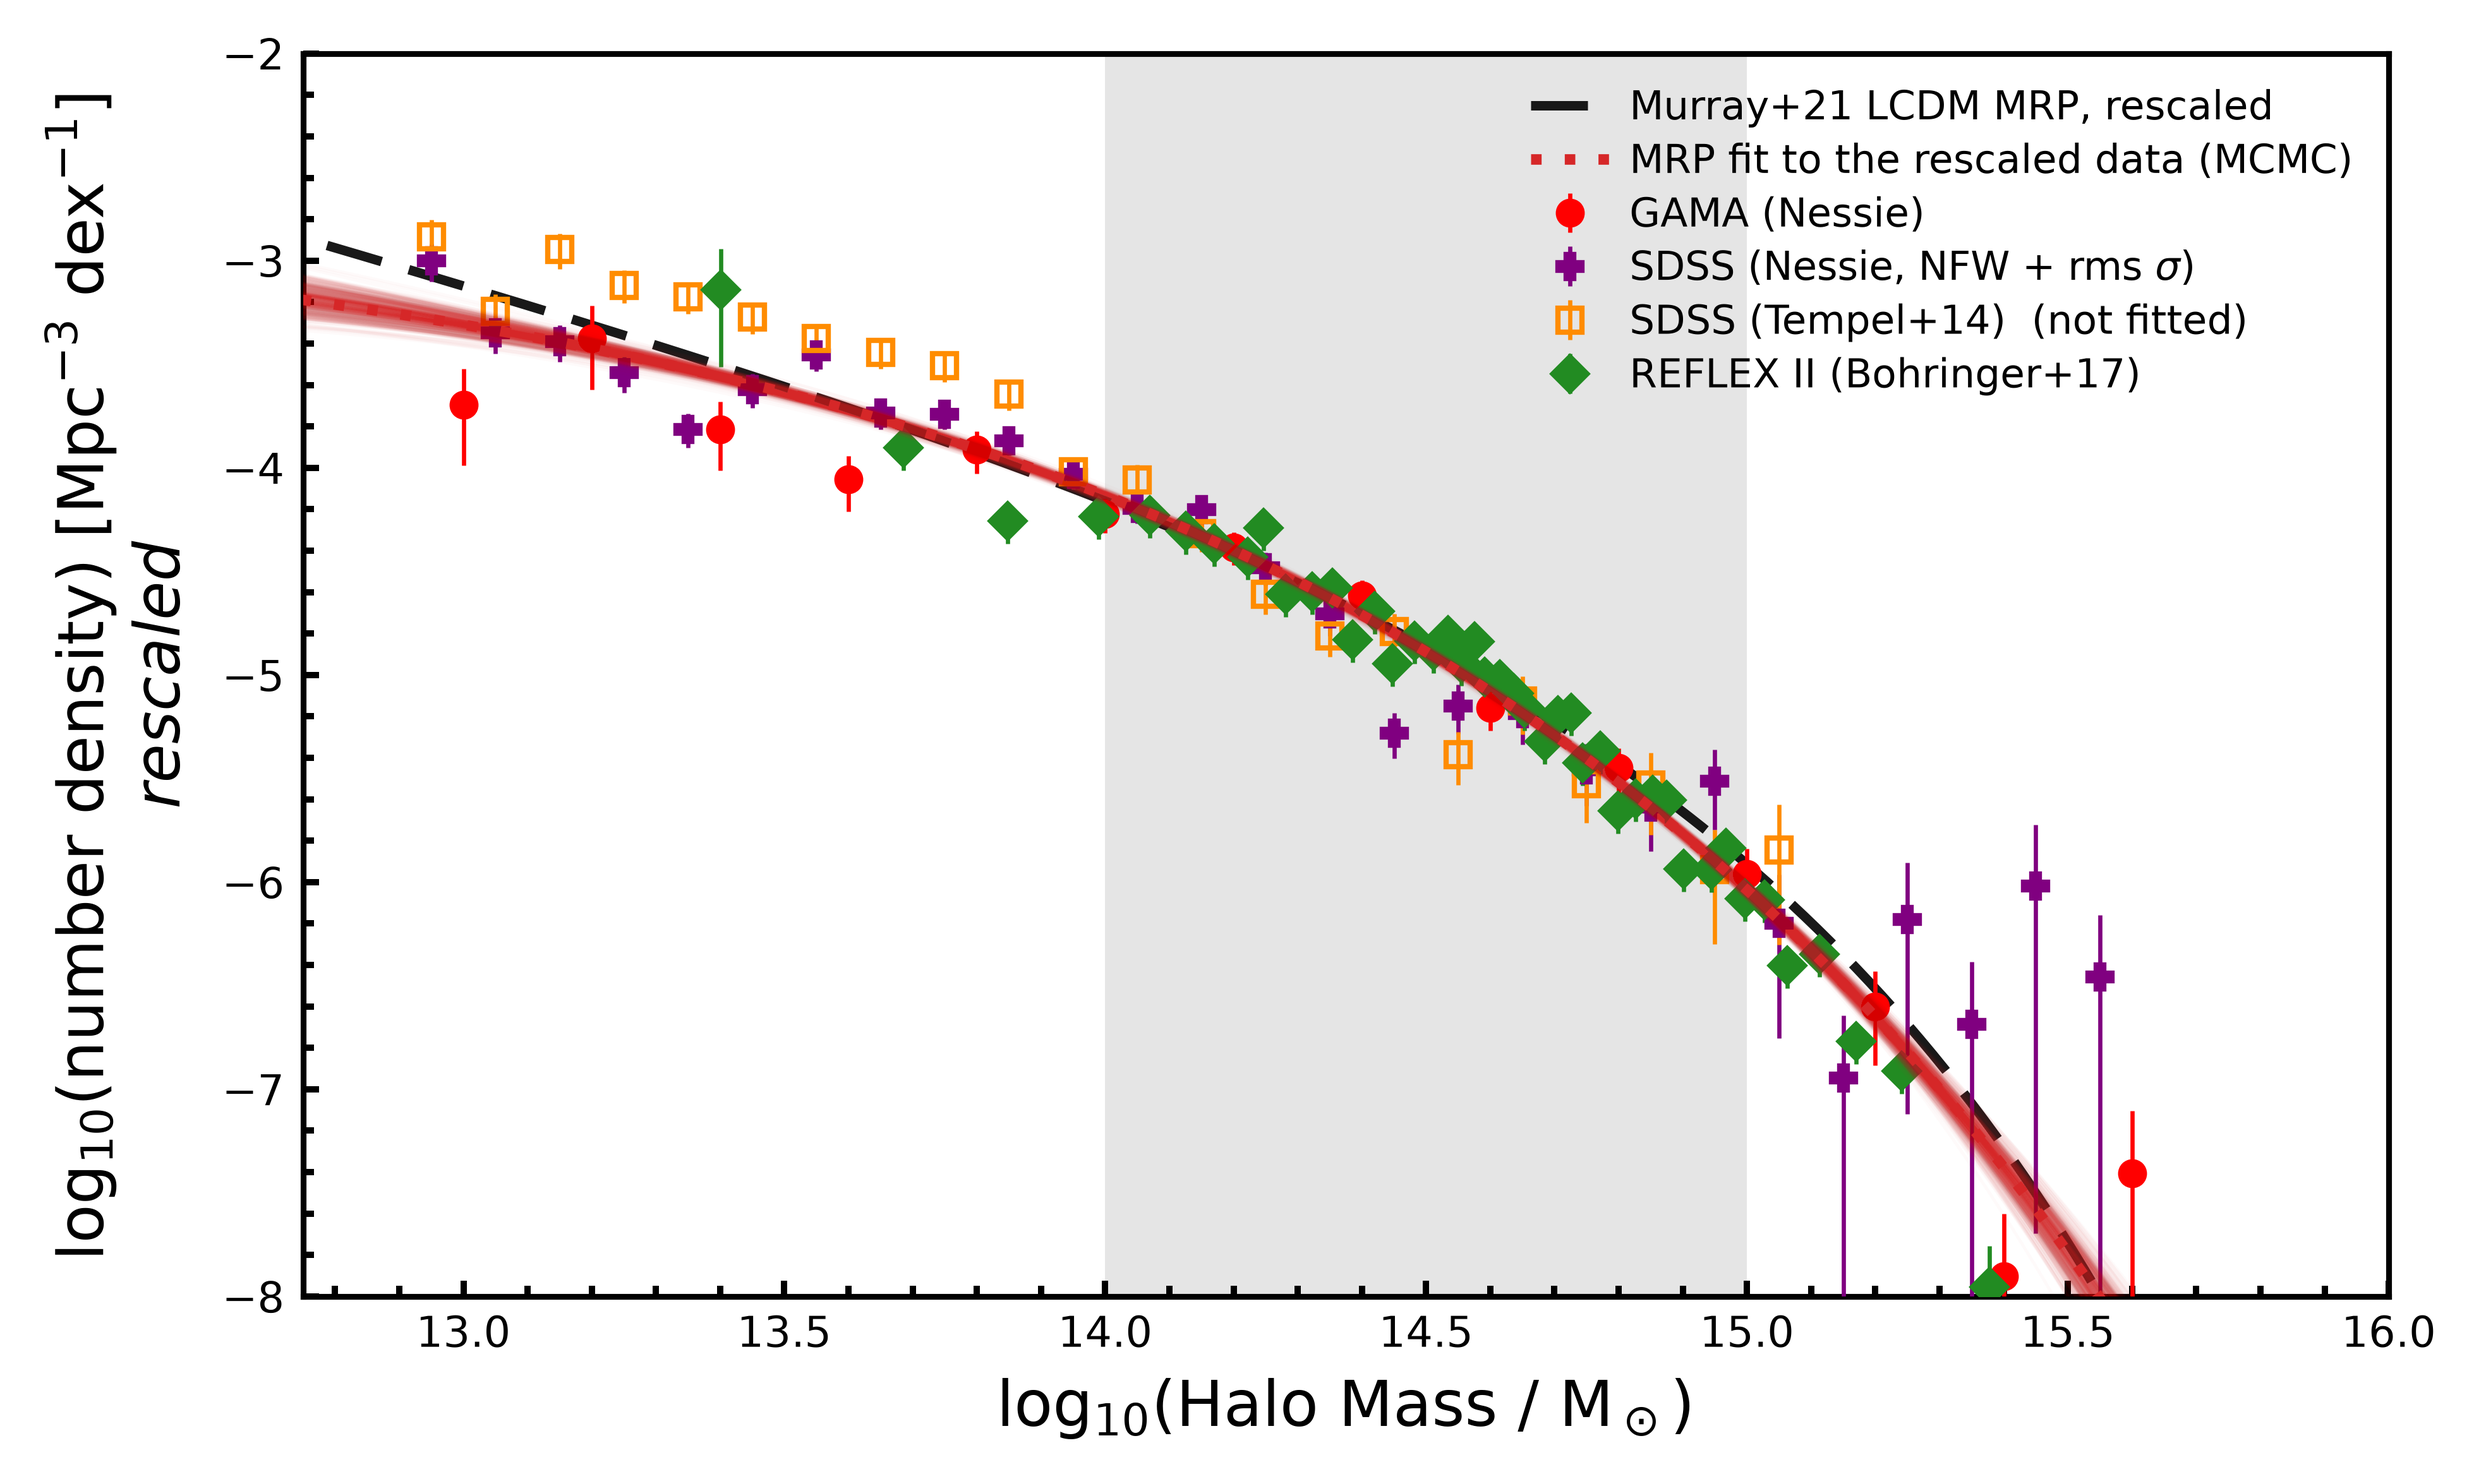
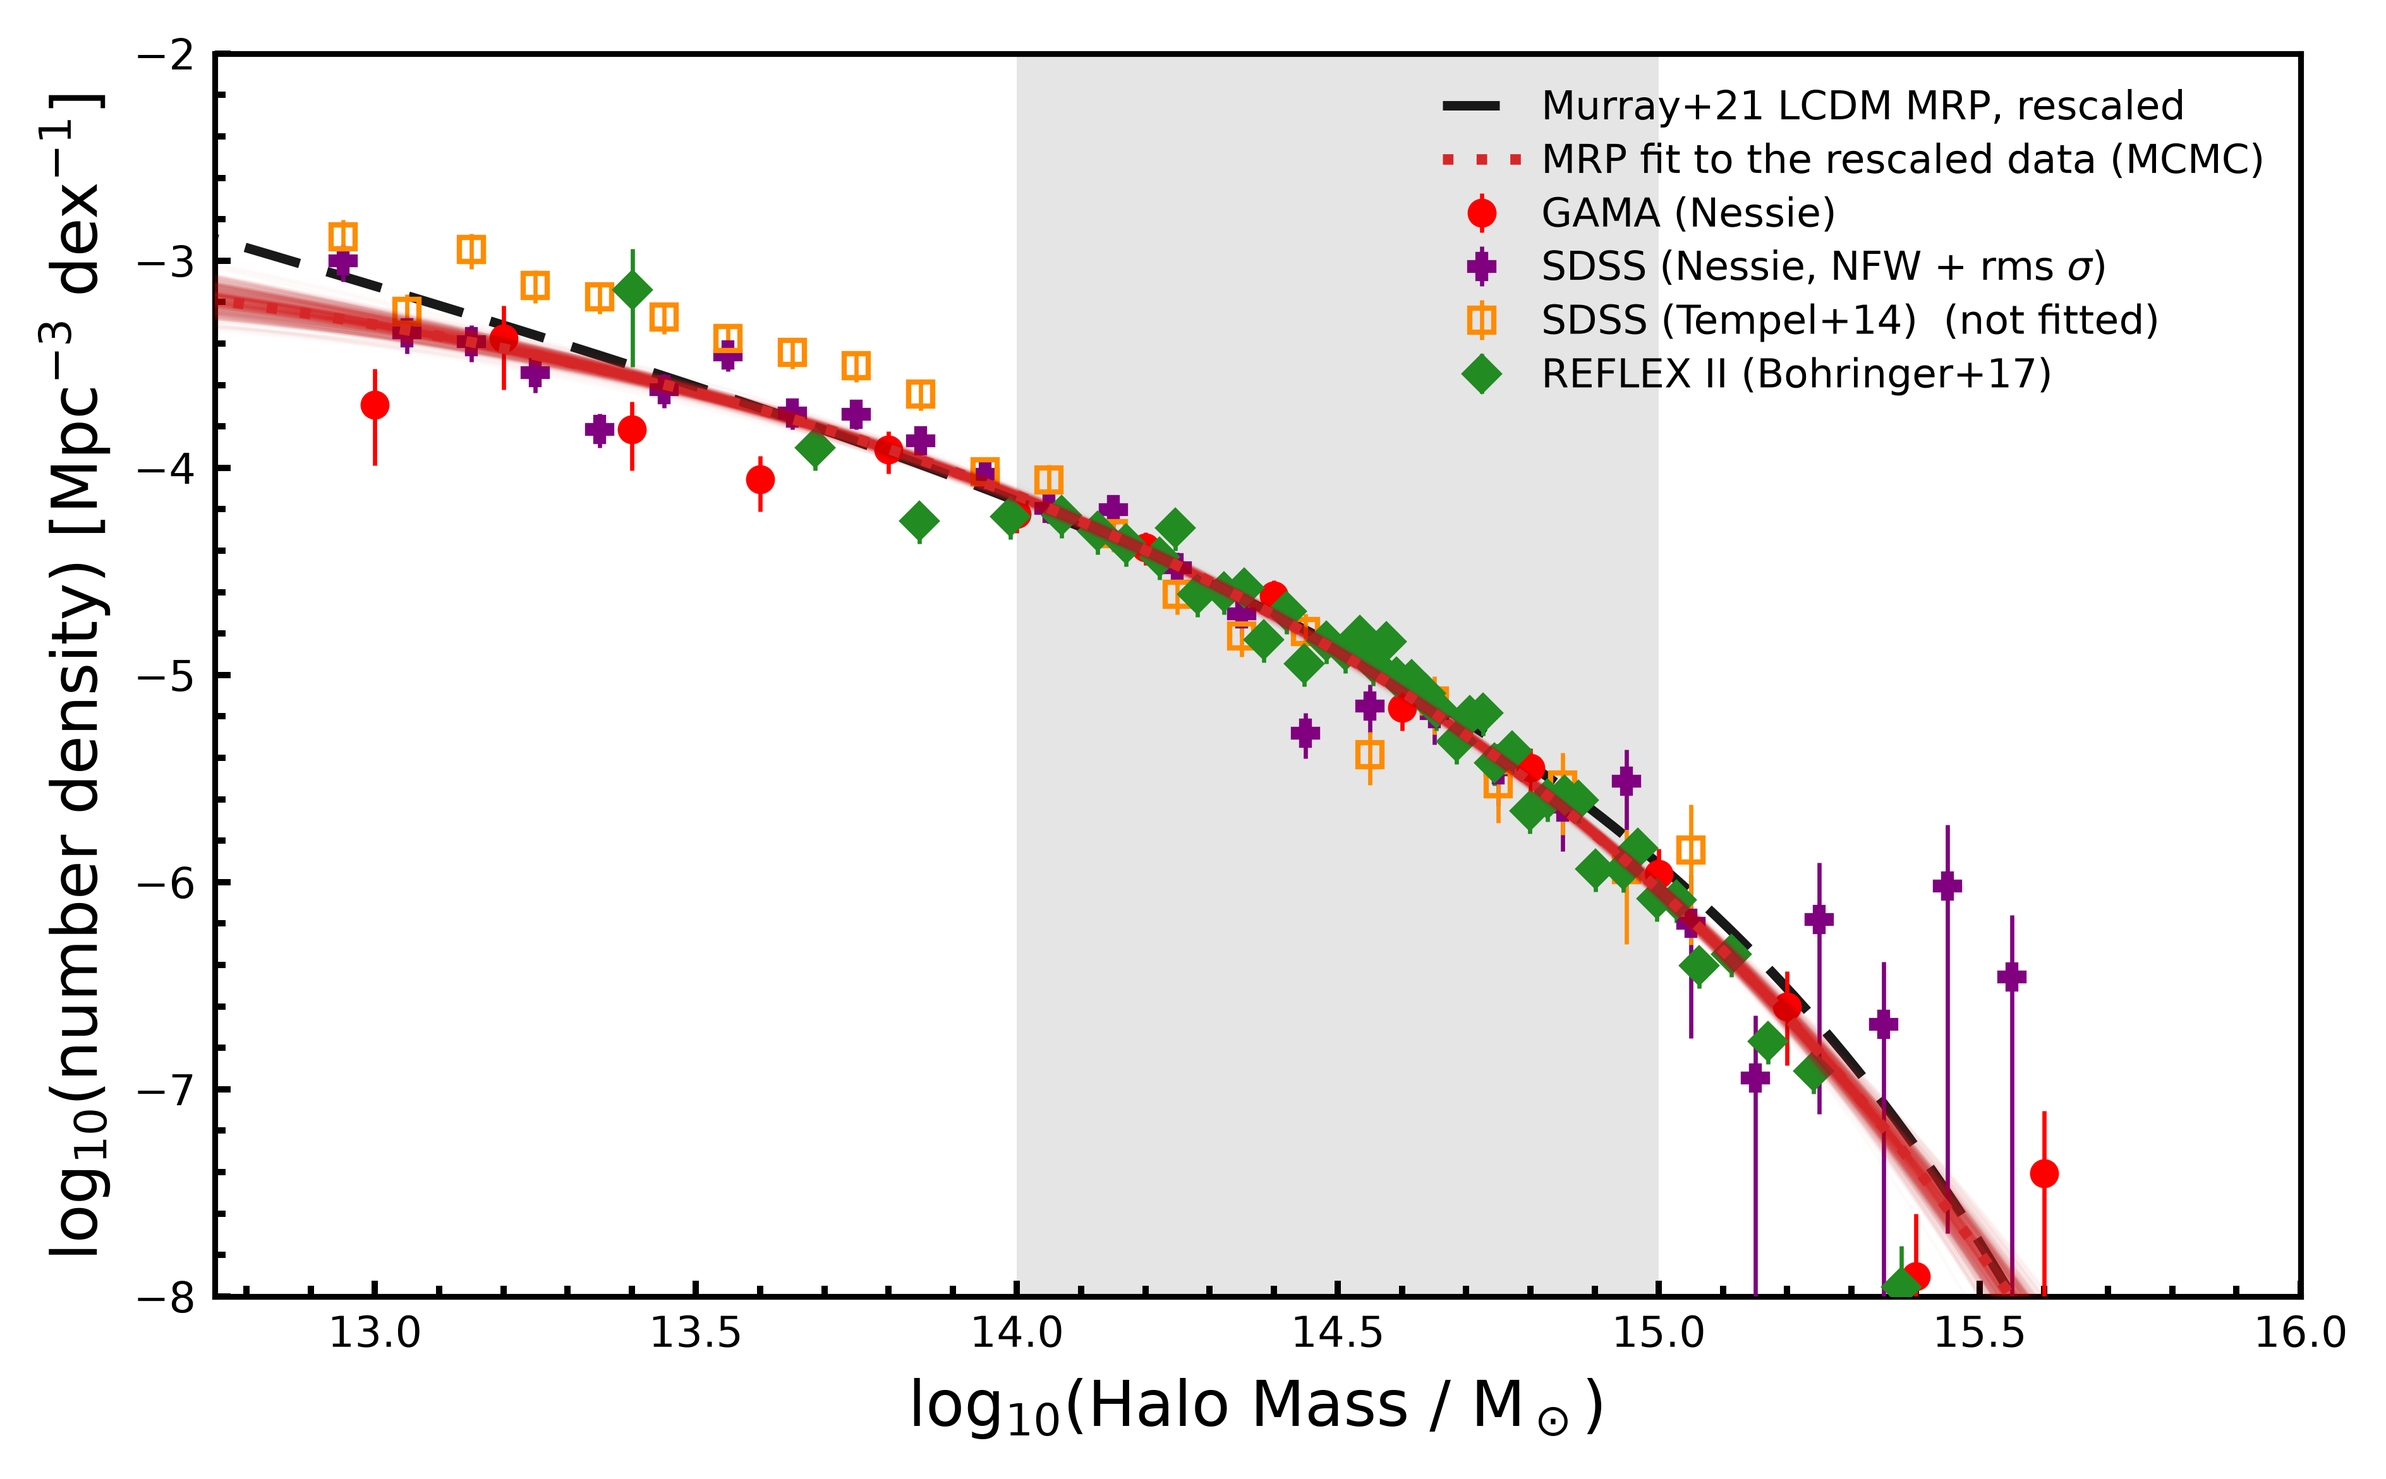
Drop the "rescaled" annotation from the shape-fit y-axis label
The second label line read as italic mathtext and crowded the axis.  The
legend entries still name both curves as rescaled, and the grey band marks
the matching range, so nothing about the figure becomes unclear.

diff --git a/python_rewrite/normalised_shape_fit.py b/python_rewrite/normalised_shape_fit.py
@@ -242,8 +242,7 @@ def plot(legs, par, order, args, chain=None):
     import plotting
 
     fig = plotting.start_plot(r"log$_{10}$(Halo Mass / M$_\odot$)",
-                              r"log$_{10}$(number density) [Mpc$^{-3}$ dex$^{-1}$]"
-                              + "\n" + r"$rescaled$",
+                              r"log$_{10}$(number density) [Mpc$^{-3}$ dex$^{-1}$]",
                               figsize=plotting.FULL_PAGE)
     ax = plt.gca()
 
